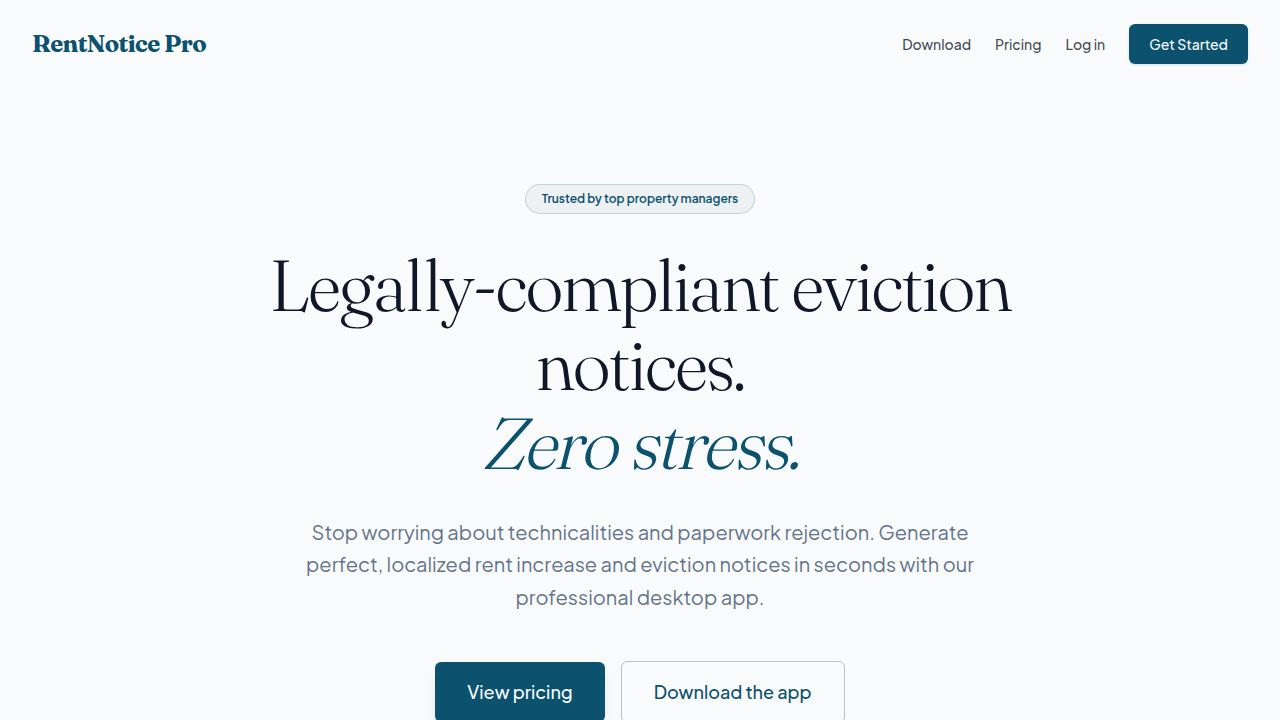
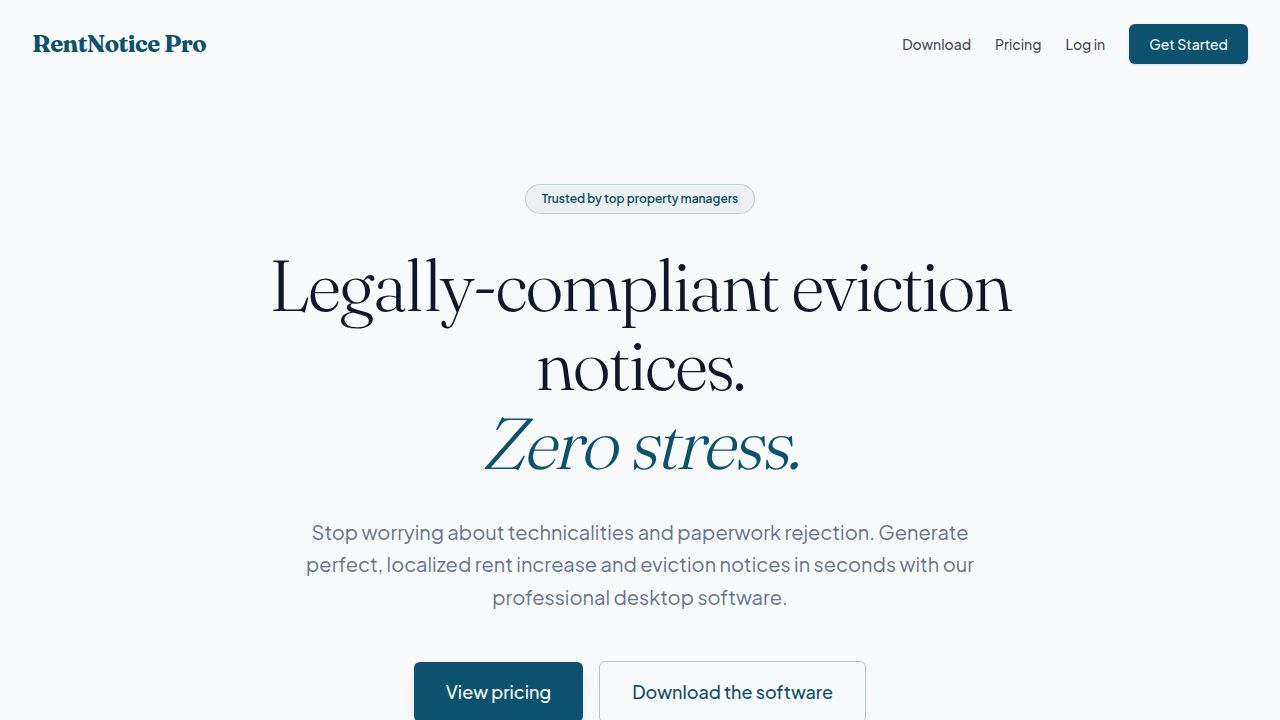
Task #69: Call RentNotice Pro "software" instead of "app" on the website
Replaced all user-visible "app" wording with "software" across the marketing
website and customer portal (artifacts/www):

- Home.tsx: hero copy "professional desktop software"; button "Download the software"
- Download.tsx: intro "Install the desktop software", macOS Gatekeeper note
  ("open the software", "Right-click the software"), and the security-warning
  alert ("caution message for software from new publishers")
- portal/Users.tsx: team management subtitle, invite dialog description,
  invite-code helper text, invite-code dialog, desktop username dialog
- portal/PortalLayout.tsx: nav link now "Download Software"
- CheckoutSuccess.tsx: next-steps list "desktop software"
- index.html: placeholder meta/og/twitter descriptions now say "software"

Code identifiers (App.tsx, --app-font-* CSS vars) left untouched per task scope.
Verified via grep that no user-visible "app" references remain in artifacts/www,
and confirmed Home and Download pages render naturally via screenshots.

Follow-up proposed: apply the same wording change to customer emails in
artifacts/api-server/src/lib/email.ts, which still say "desktop app".

Replit-Task-Id: e2f5aa60-a7d8-4a6c-8a39-a31cfbb51050

Changed region(s): [[0.3125, 0.9167, 0.6562, 1.0], [0.375, 0.825, 0.625, 0.8556]]

diff --git a/artifacts/www/src/pages/portal/Users.tsx b/artifacts/www/src/pages/portal/Users.tsx
@@ -161,7 +161,7 @@ export default function Users() {
       <div className="flex flex-col sm:flex-row sm:items-center justify-between mb-8 gap-4">
         <div>
           <h1 className="text-3xl font-serif text-foreground">Team Management</h1>
-          <p className="text-muted-foreground mt-1">Manage access to the RentNotice Pro desktop app.</p>
+          <p className="text-muted-foreground mt-1">Manage access to the RentNotice Pro desktop software.</p>
         </div>
 
         {isAdmin && (
@@ -180,7 +180,7 @@ export default function Users() {
                 <DialogTitle>Invite Team Member</DialogTitle>
                 <DialogDescription>
                   Invite a colleague by email and role. You'll get a single-use
-                  invite code they enter in the RentNotice Pro desktop app.
+                  invite code they enter in the RentNotice Pro desktop software.
                 </DialogDescription>
               </DialogHeader>
 
@@ -205,7 +205,7 @@ export default function Users() {
                       </Button>
                     </div>
                     <p className="text-xs text-muted-foreground mt-1.5">
-                      They enter this code in the desktop app to set up their account. It can only be used once
+                      They enter this code in the desktop software to set up their account. It can only be used once
                       and expires on {format(new Date(inviteResult.expiresAt), 'MMM d, yyyy')}.
                     </p>
                   </div>
@@ -382,7 +382,7 @@ export default function Users() {
             <DialogTitle>Invite Code</DialogTitle>
             <DialogDescription>
               {inviteCodeTarget && (
-                <>Share this single-use code with {inviteCodeTarget.email}. They enter it in the RentNotice Pro desktop app to set up their account.</>
+                <>Share this single-use code with {inviteCodeTarget.email}. They enter it in the RentNotice Pro desktop software to set up their account.</>
               )}
             </DialogDescription>
           </DialogHeader>
@@ -452,7 +452,7 @@ export default function Users() {
             <DialogTitle>Desktop Username</DialogTitle>
             <DialogDescription>
               {usernameTarget && (
-                <>Choose the username {usernameTarget.name || usernameTarget.email} types to sign in to the RentNotice Pro desktop app. Leave blank to use an automatic one based on their email.</>
+                <>Choose the username {usernameTarget.name || usernameTarget.email} types to sign in to the RentNotice Pro desktop software. Leave blank to use an automatic one based on their email.</>
               )}
             </DialogDescription>
           </DialogHeader>

diff --git a/artifacts/www/src/pages/Download.tsx b/artifacts/www/src/pages/Download.tsx
@@ -38,7 +38,7 @@ export default function Download() {
           <div className="text-center mb-12">
             <h1 className="text-4xl md:text-5xl font-serif text-foreground mb-4">Download RentNotice Pro</h1>
             <p className="text-xl text-muted-foreground">
-              Install the desktop app on Windows or Mac, then activate it with the license key from your{" "}
+              Install the desktop software on Windows or Mac, then activate it with the license key from your{" "}
               <Link href="/portal" className="text-primary underline underline-offset-4">customer portal</Link>.
             </p>
             {links?.version && (
@@ -91,8 +91,8 @@ export default function Download() {
               <CardContent className="flex-1 text-sm text-muted-foreground space-y-2">
                 <p>Download the .dmg for your Mac, open it, and drag RentNotice Pro into Applications.</p>
                 <p>
-                  The first time you open the app, macOS may say it "cannot verify the developer."{" "}
-                  <span className="font-semibold text-foreground">Right-click (or Control-click) the app and choose Open</span>,
+                  The first time you open the software, macOS may say it "cannot verify the developer."{" "}
+                  <span className="font-semibold text-foreground">Right-click (or Control-click) the software and choose Open</span>,
                   then click Open again to confirm.
                 </p>
               </CardContent>
@@ -118,7 +118,7 @@ export default function Download() {
             <AlertTitle>Why the security warnings?</AlertTitle>
             <AlertDescription>
               RentNotice Pro installers are not yet code-signed, so Windows and macOS show a one-time
-              caution message for apps from new publishers. The download always comes directly from our
+              caution message for software from new publishers. The download always comes directly from our
               official GitHub releases page, and the steps above let you proceed safely.
             </AlertDescription>
           </Alert>

diff --git a/artifacts/www/index.html b/artifacts/www/index.html
@@ -4,14 +4,14 @@
     <meta charset="UTF-8" />
     <meta name="viewport" content="width=device-width, initial-scale=1.0, maximum-scale=1" />
     <title>RentNotice Pro Website</title>
-    <meta name="description" content="RentNotice Pro Website — built on Replit. Update this description to reflect the app." />
+    <meta name="description" content="RentNotice Pro Website — built on Replit. Update this description to reflect the software." />
     <meta name="robots" content="index, follow" />
     <meta property="og:title" content="RentNotice Pro Website" />
-    <meta property="og:description" content="RentNotice Pro Website — built on Replit. Update this description to reflect the app." />
+    <meta property="og:description" content="RentNotice Pro Website — built on Replit. Update this description to reflect the software." />
     <meta property="og:type" content="website" />
     <meta name="twitter:card" content="summary_large_image" />
     <meta name="twitter:title" content="RentNotice Pro Website" />
-    <meta name="twitter:description" content="RentNotice Pro Website — built on Replit. Update this description to reflect the app." />
+    <meta name="twitter:description" content="RentNotice Pro Website — built on Replit. Update this description to reflect the software." />
     <link rel="icon" type="image/svg+xml" href="/favicon.svg" />
     <link rel="preconnect" href="https://fonts.googleapis.com">
     <link rel="preconnect" href="https://fonts.gstatic.com" crossorigin>

diff --git a/artifacts/www/src/pages/Home.tsx b/artifacts/www/src/pages/Home.tsx
@@ -23,14 +23,14 @@ export default function Home() {
             <span className="text-primary italic">Zero stress.</span>
           </h1>
           <p className="text-lg md:text-xl text-muted-foreground max-w-2xl leading-relaxed">
-            Stop worrying about technicalities and paperwork rejection. Generate perfect, localized rent increase and eviction notices in seconds with our professional desktop app.
+            Stop worrying about technicalities and paperwork rejection. Generate perfect, localized rent increase and eviction notices in seconds with our professional desktop software.
           </p>
           <div className="flex items-center gap-4 mt-4">
             <Link href="/pricing" className="bg-primary text-primary-foreground px-8 py-4 rounded-md text-lg font-medium hover:bg-primary/90 transition-colors shadow-lg hover:shadow-xl hover:-translate-y-0.5 duration-200">
               View pricing
             </Link>
             <Link href="/download" className="border border-primary/30 text-primary px-8 py-4 rounded-md text-lg font-medium hover:bg-primary/5 transition-colors">
-              Download the app
+              Download the software
             </Link>
           </div>
         </section>

diff --git a/artifacts/www/src/pages/CheckoutSuccess.tsx b/artifacts/www/src/pages/CheckoutSuccess.tsx
@@ -89,7 +89,7 @@ export default function CheckoutSuccess() {
                 <div className="bg-primary/5 border border-primary/20 rounded-md p-4 space-y-2">
                   <h4 className="font-semibold text-primary">Next Steps:</h4>
                   <ol className="list-decimal list-inside space-y-1 text-sm text-muted-foreground ml-1">
-                    <li>Download the RentNotice Pro desktop app if you haven't already.</li>
+                    <li>Download the RentNotice Pro desktop software if you haven't already.</li>
                     <li>Open the application and select "Activate License".</li>
                     <li>Paste the license key above to unlock full functionality.</li>
                   </ol>

diff --git a/artifacts/www/src/pages/portal/PortalLayout.tsx b/artifacts/www/src/pages/portal/PortalLayout.tsx
@@ -67,7 +67,7 @@ export default function PortalLayout({ children }: { children: React.ReactNode }
           </Link>
           <Link href="/download" className="flex items-center gap-3 px-3 py-2 rounded-md transition-colors hover:bg-muted text-muted-foreground hover:text-foreground">
               <Download className="w-4 h-4" />
-              Download App
+              Download Software
           </Link>
         </nav>
 